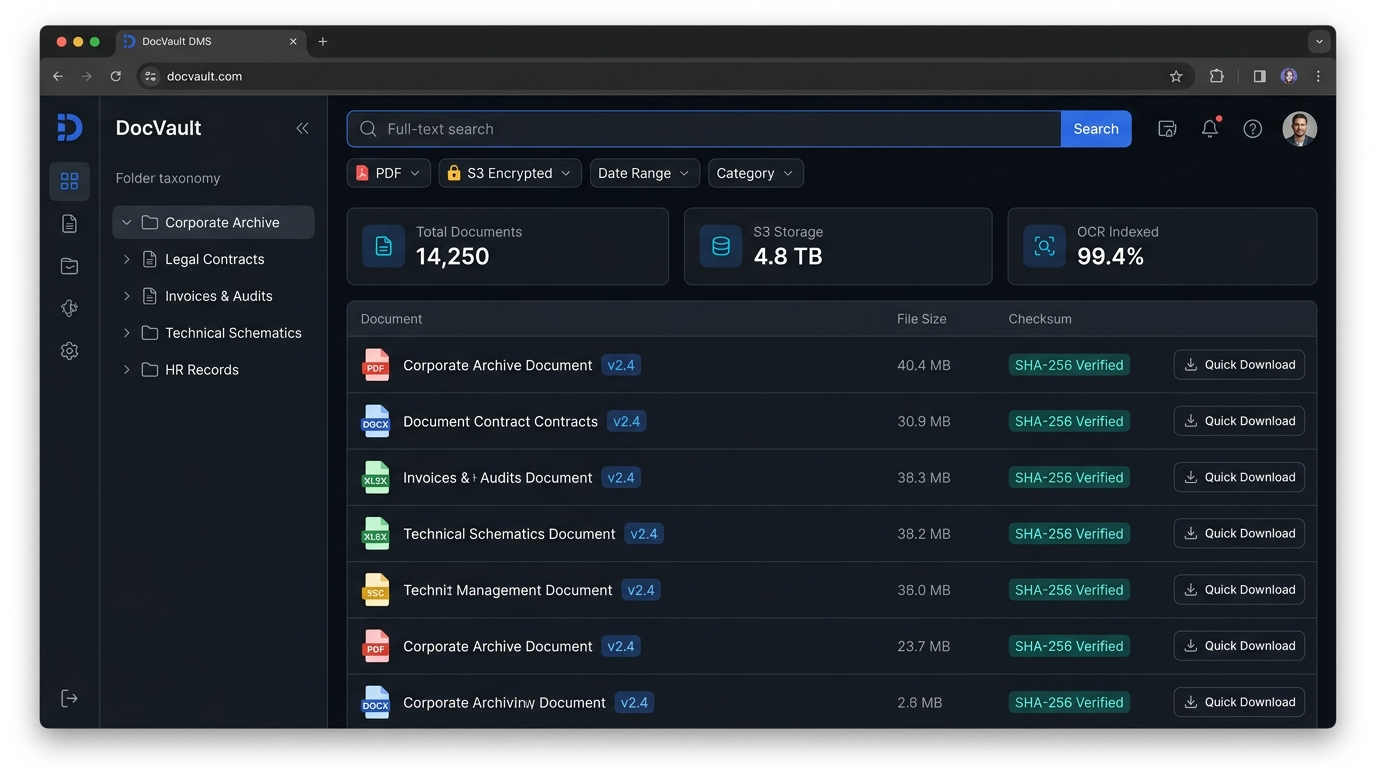
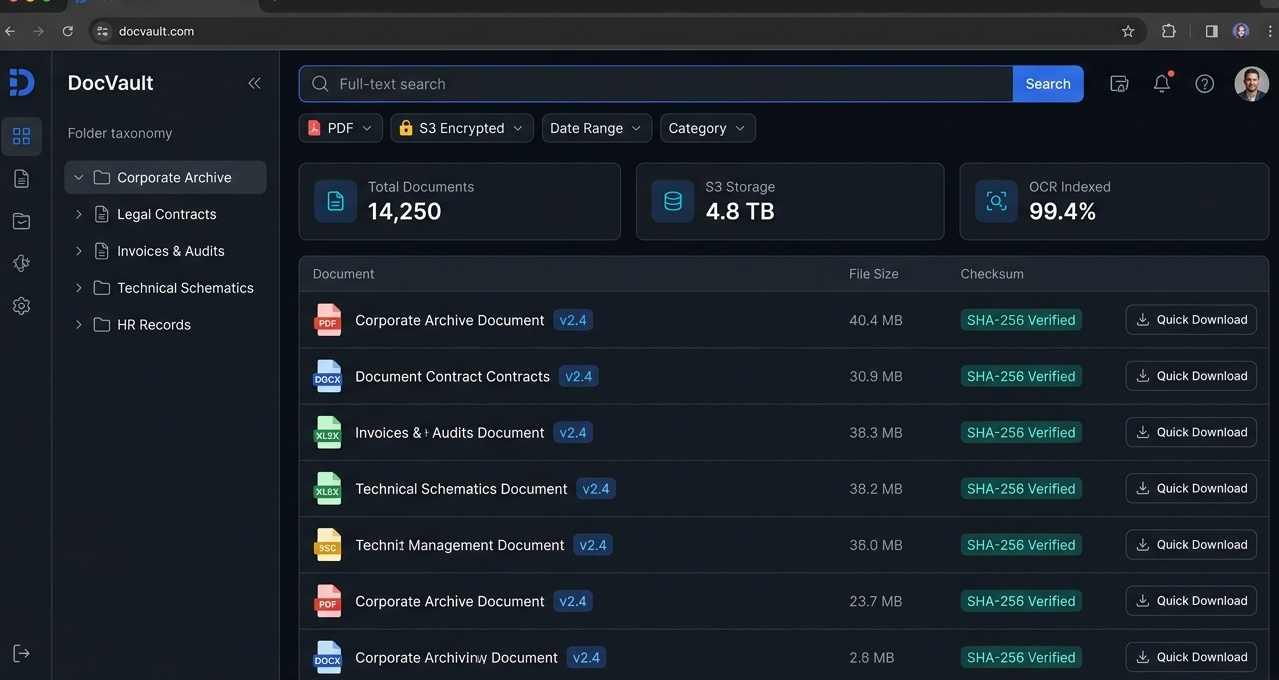
feat(auth): initial login portal gate with pre-filled credentials

diff --git a/index.html b/index.html
@@ -384,9 +384,173 @@
       transition: all 0.3s cubic-bezier(0.16, 1, 0.3, 1);
     }
     .toast.show { transform: translateY(0); opacity: 1; }
+
+    /* Fullscreen Login Portal */
+    .login-overlay {
+      position: fixed;
+      inset: 0;
+      z-index: 10000;
+      background: linear-gradient(135deg, #0f172a 0%, #0369a1 100%);
+      display: flex;
+      flex-direction: column;
+      align-items: center;
+      justify-content: center;
+      padding: 1.5rem;
+      overflow-y: auto;
+    }
+    .login-box {
+      background: #ffffff;
+      color: #0f172a;
+      border-radius: 16px;
+      width: 100%;
+      max-width: 440px;
+      box-shadow: 0 25px 50px -12px rgba(0, 0, 0, 0.4);
+      padding: 2rem;
+      border: 1px solid #e2e8f0;
+      position: relative;
+    }
+    .login-box .form-label {
+      font-size: 0.82rem;
+      font-weight: 600;
+      color: #475569;
+      margin-bottom: 0.35rem;
+      display: block;
+    }
+    .login-box .form-control {
+      width: 100%;
+      padding: 0.65rem 0.85rem;
+      border: 1px solid #cbd5e1;
+      border-radius: 8px;
+      font-size: 0.9rem;
+      color: #0f172a;
+      background: #f8fafc;
+      transition: all 0.15s;
+    }
+    .login-box .form-control:focus {
+      outline: none;
+      border-color: var(--primary);
+      background: #ffffff;
+      box-shadow: 0 0 0 3px rgba(2, 132, 199, 0.15);
+    }
+    .login-creds-box {
+      background: #f8fafc;
+      border: 1px dashed #cbd5e1;
+      border-radius: 10px;
+      padding: 0.85rem 1rem;
+      margin-top: 1.25rem;
+      font-size: 0.82rem;
+      color: #334155;
+    }
+    .role-quick-btn {
+      background: #ffffff;
+      border: 1px solid #cbd5e1;
+      border-radius: 6px;
+      padding: 0.25rem 0.55rem;
+      font-size: 0.76rem;
+      font-weight: 600;
+      cursor: pointer;
+      color: #334155;
+      transition: all 0.15s;
+    }
+    .role-quick-btn:hover, .role-quick-btn.active {
+      border-color: var(--primary);
+      color: var(--primary);
+      background: #f0f9ff;
+    }
+    .login-footer {
+      margin-top: 1.5rem;
+      padding-top: 0.85rem;
+      border-top: 1px solid #e2e8f0;
+      display: flex;
+      justify-content: space-between;
+      align-items: center;
+      font-size: 0.78rem;
+      color: #64748b;
+    }
+    .login-footer a {
+      color: var(--primary);
+      text-decoration: none;
+      font-weight: 600;
+      display: inline-flex;
+      align-items: center;
+      gap: 0.35rem;
+    }
+    .login-footer a:hover { text-decoration: underline; }
   </style>
 </head>
 <body>
+
+  <!-- Fullscreen Login Portal (Initial Gate) -->
+  <div class="login-overlay" id="loginPortal">
+    <div class="login-box">
+      <!-- Top header with Lang toggle -->
+      <div style="display:flex;justify-content:space-between;align-items:center;margin-bottom:1.25rem;">
+        <div style="display:flex;align-items:center;gap:0.65rem;">
+          <div class="brand-icon" style="width:36px;height:36px;font-size:1.15rem;"><i class="bi bi-folder-check"></i></div>
+          <div>
+            <div style="font-weight:800;font-size:1.2rem;color:#0f172a;line-height:1.2;">DocVault DMS</div>
+            <div style="font-size:0.75rem;color:#64748b;" id="lblLoginSubtitle">Güvenli Kurumsal Belge &amp; Arşiv Giriş Portalı</div>
+          </div>
+        </div>
+        <div class="lang-toggle" onclick="toggleLanguage()" style="background:#f1f5f9;color:#0f172a;border-color:#cbd5e1;">
+          <span id="loginLangTr" class="active">TR</span>
+          <span style="opacity:0.4;">|</span>
+          <span id="loginLangEn">EN</span>
+        </div>
+      </div>
+
+      <form onsubmit="event.preventDefault(); submitLogin();">
+        <div style="margin-bottom:0.85rem;">
+          <label class="form-label" id="lblLoginUser">Kurumsal E-posta / Arşiv Yetki ID</label>
+          <input type="text" id="loginEmail" class="form-control" value="arsiv@docvault.io" required>
+        </div>
+        <div style="margin-bottom:1rem;">
+          <label class="form-label" id="lblLoginPass">Kasa Erişim Anahtarı / Şifre</label>
+          <input type="password" id="loginPassword" class="form-control" value="docvault2026" required>
+        </div>
+        <div style="display:flex;justify-content:space-between;align-items:center;margin-bottom:1.25rem;font-size:0.8rem;color:#64748b;">
+          <label style="display:flex;align-items:center;gap:0.4rem;cursor:pointer;">
+            <input type="checkbox" checked style="accent-color:var(--primary);"> <span id="lblRemember">Beni Hatırla</span>
+          </label>
+          <span style="color:var(--primary);cursor:pointer;font-weight:600;" id="lblForgot">Şifremi Unuttum</span>
+        </div>
+        <button type="submit" class="btn btn-primary w-100" style="padding:0.75rem;font-size:0.95rem;justify-content:center;" id="btnLoginSubmit">
+          <i class="bi bi-box-arrow-in-right"></i> <span id="btnLoginText">Giriş Yap</span>
+        </button>
+      </form>
+
+      <!-- Pre-filled Demo Credentials Box -->
+      <div class="login-creds-box">
+        <div style="font-weight:700;margin-bottom:0.45rem;display:flex;align-items:center;gap:0.4rem;color:#0f172a;">
+          <i class="bi bi-key-fill" style="color:var(--primary);"></i>
+          <span id="lblDemoCredsTitle">Demo Giriş Bilgileri (Hazır Girildi)</span>
+        </div>
+        <div style="margin-bottom:0.25rem;">
+          <span id="lblCredEmail">E-posta:</span> <strong style="font-family:var(--font-mono);color:#0f172a;" id="displayCredEmail">arsiv@docvault.io</strong>
+        </div>
+        <div style="margin-bottom:0.65rem;">
+          <span id="lblCredPass">Şifre:</span> <strong style="font-family:var(--font-mono);color:#0f172a;">docvault2026</strong>
+        </div>
+        <div style="font-size:0.75rem;color:#64748b;margin-bottom:0.35rem;" id="lblQuickRole">Hızlı Rol Seçimi:</div>
+        <div style="display:flex;gap:0.35rem;flex-wrap:wrap;">
+          <button type="button" class="role-quick-btn active" onclick="setLoginPreset(0, this)">Arşiv Yöneticisi</button>
+          <button type="button" class="role-quick-btn" onclick="setLoginPreset(1, this)">Uyum Denetçisi</button>
+          <button type="button" class="role-quick-btn" onclick="setLoginPreset(2, this)">Müşteri</button>
+          <button type="button" class="role-quick-btn" onclick="setLoginPreset(3, this)">Kullanıcı</button>
+        </div>
+      </div>
+
+      <!-- Footer on Login Screen -->
+      <div class="login-footer">
+        <div>Developed by Beraat Yetkin</div>
+        <div>
+          <a href="https://github.com/kubrvk/DocVault-DMS" target="_blank" rel="noopener noreferrer">
+            <i class="bi bi-github"></i> GitHub
+          </a>
+        </div>
+      </div>
+    </div>
+  </div>
 
   <!-- Header -->
   <header>
@@ -415,7 +579,10 @@
         <span id="userRoleText" style="font-size:0.75rem;background:#e2e8f0;padding:0.15rem 0.45rem;border-radius:4px;color:#475569;">Vault Admin</span>
       </div>
       <button class="btn btn-outline btn-sm" onclick="openAuthModal()" id="btnSwitchRole">
-        <i class="bi bi-box-arrow-in-right"></i> <span id="lblSwitchRole">Rol Değiştir</span>
+        <i class="bi bi-person-gear"></i> <span id="lblSwitchRole">Rol Değiştir</span>
+      </button>
+      <button class="btn btn-outline btn-sm" style="color:var(--danger);border-color:#fca5a5;" onclick="logoutUser()">
+        <i class="bi bi-box-arrow-right"></i> <span id="lblLogout">Çıkış</span>
       </button>
     </div>
   </header>
@@ -662,7 +829,18 @@
         toastPresigned: "S3 pre-signed güvenli bağlantısı üretildi. İndirme başlatıldı.",
         toastDocSealed: "Belge SHA-256 ile mühürlendi:",
         toastActiveRole: "Aktif Rol:",
-        noDocFound: "Aramanıza uygun belge bulunamadı."
+        noDocFound: "Aramanıza uygun belge bulunamadı.",
+        loginSubtitle: "Güvenli Kurumsal Belge & Arşiv Giriş Portalı",
+        loginUser: "Kurumsal E-posta / Arşiv Yetki ID",
+        loginPass: "Kasa Erişim Anahtarı / Şifre",
+        loginRemember: "Beni Hatırla",
+        loginForgot: "Şifremi Unuttum",
+        loginBtn: "Giriş Yap",
+        demoCredsTitle: "Demo Giriş Bilgileri (Hazır Girildi)",
+        credEmail: "E-posta:",
+        credPass: "Şifre:",
+        quickRole: "Hızlı Rol Seçimi:",
+        logout: "Çıkış"
       },
       en: {
         brandSub: "Secure Enterprise Document & Archive Management",
@@ -704,7 +882,18 @@
         toastPresigned: "S3 pre-signed secure URL generated. Download started.",
         toastDocSealed: "Document sealed with SHA-256:",
         toastActiveRole: "Active Role:",
-        noDocFound: "No documents matching your search criteria."
+        noDocFound: "No documents matching your search criteria.",
+        loginSubtitle: "Secure Enterprise Document & Archive Login Portal",
+        loginUser: "Corporate Email / Vault Access ID",
+        loginPass: "Vault Access Key / Password",
+        loginRemember: "Remember Me",
+        loginForgot: "Forgot Password",
+        loginBtn: "Sign In",
+        demoCredsTitle: "Demo Credentials (Pre-filled)",
+        credEmail: "Email:",
+        credPass: "Password:",
+        quickRole: "Quick Role Switch:",
+        logout: "Logout"
       }
     };
 
@@ -931,6 +1120,20 @@
       document.getElementById('authModalDesc').textContent = dict.authDesc;
       document.getElementById('authBtnClose').textContent = dict.btnClose;
 
+      if (document.getElementById('lblLoginSubtitle')) document.getElementById('lblLoginSubtitle').textContent = dict.loginSubtitle;
+      if (document.getElementById('lblLoginUser')) document.getElementById('lblLoginUser').textContent = dict.loginUser;
+      if (document.getElementById('lblLoginPass')) document.getElementById('lblLoginPass').textContent = dict.loginPass;
+      if (document.getElementById('lblRemember')) document.getElementById('lblRemember').textContent = dict.loginRemember;
+      if (document.getElementById('lblForgot')) document.getElementById('lblForgot').textContent = dict.loginForgot;
+      if (document.getElementById('btnLoginText')) document.getElementById('btnLoginText').textContent = dict.loginBtn;
+      if (document.getElementById('lblDemoCredsTitle')) document.getElementById('lblDemoCredsTitle').textContent = dict.demoCredsTitle;
+      if (document.getElementById('lblCredEmail')) document.getElementById('lblCredEmail').textContent = dict.credEmail;
+      if (document.getElementById('lblCredPass')) document.getElementById('lblCredPass').textContent = dict.credPass;
+      if (document.getElementById('lblQuickRole')) document.getElementById('lblQuickRole').textContent = dict.quickRole;
+      if (document.getElementById('lblLogout')) document.getElementById('lblLogout').textContent = dict.logout;
+      if (document.getElementById('loginLangTr')) document.getElementById('loginLangTr').className = (lang === 'tr') ? 'active' : '';
+      if (document.getElementById('loginLangEn')) document.getElementById('loginLangEn').className = (lang === 'en') ? 'active' : '';
+
       // Update Persona Display
       const preset = rolePresets[currentRoleIndex];
       document.getElementById('userNameText').textContent = (lang === 'tr') ? preset.trName : preset.enName;
@@ -1141,6 +1344,50 @@
       saveState();
       closeAuthModal();
       showToast(`${dict.toastActiveRole} ${(currentLang === 'tr') ? preset.trName : preset.enName}`);
+    }
+
+    function submitLogin() {
+      const email = document.getElementById('loginEmail').value.trim();
+      const pass = document.getElementById('loginPassword').value.trim();
+      const dict = i18n[currentLang] || i18n.tr;
+      if (!email || !pass) {
+        showToast(currentLang === 'tr' ? 'Lütfen kurumsal e-posta ve şifrenizi giriniz.' : 'Please enter corporate email and password.');
+        return;
+      }
+      
+      const btn = document.getElementById('btnLoginSubmit');
+      const origText = btn.innerHTML;
+      btn.innerHTML = `<i class="bi bi-hourglass-split"></i> <span>${currentLang === 'tr' ? 'Giriş Yapılıyor...' : 'Signing in...'}</span>`;
+      btn.disabled = true;
+
+      setTimeout(() => {
+        btn.innerHTML = origText;
+        btn.disabled = false;
+        document.getElementById('loginPortal').style.display = 'none';
+        const preset = rolePresets[currentRoleIndex];
+        const roleLabel = (currentLang === 'tr') ? preset.trName : preset.enName;
+        showToast(currentLang === 'tr' ? `Giriş başarılı! Aktif Rol: ${roleLabel}` : `Login successful! Active Role: ${roleLabel}`);
+      }, 350);
+    }
+
+    function logoutUser() {
+      document.getElementById('loginPortal').style.display = 'flex';
+      showToast(currentLang === 'tr' ? 'Oturum kapatıldı. Giriş ekranına dönüldü.' : 'Logged out. Returned to login portal.');
+    }
+
+    function setLoginPreset(idx, btn) {
+      document.querySelectorAll('.role-quick-btn').forEach(b => b.classList.remove('active'));
+      if (btn) btn.classList.add('active');
+
+      const emails = [
+        'arsiv@docvault.io',
+        'denetim@compliance-audit.org',
+        'musteri@kurum.com',
+        'kullanici@docvault.io'
+      ];
+      document.getElementById('loginEmail').value = emails[idx] || 'arsiv@docvault.io';
+      document.getElementById('displayCredEmail').textContent = emails[idx] || 'arsiv@docvault.io';
+      setRoleByPreset(idx);
     }
 
     // Initialize with Turkish default
